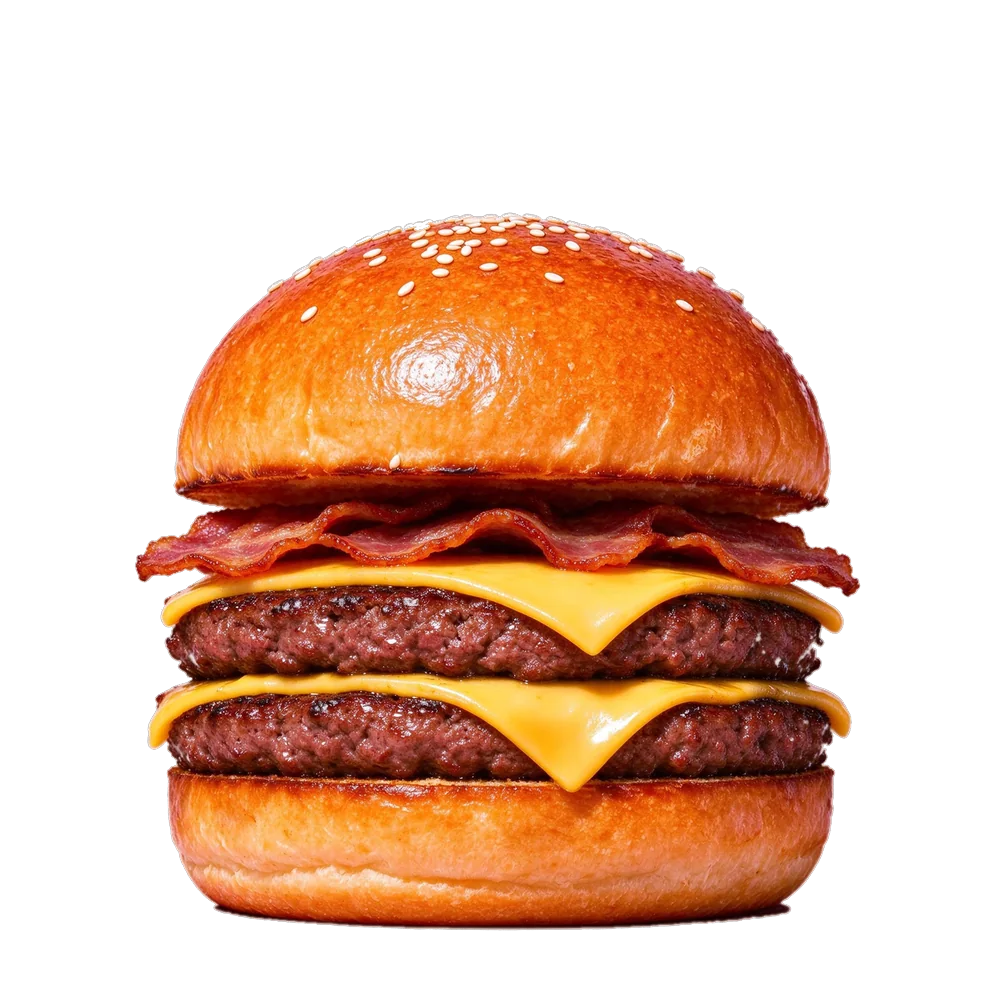
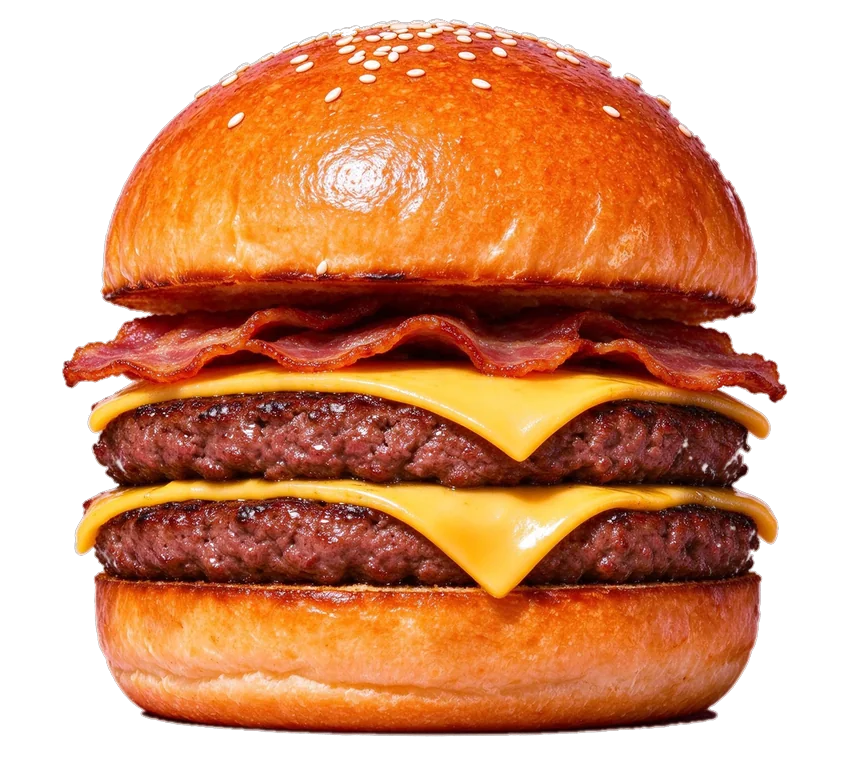
Smashley's: alignment and white-space fixes (builder crop and plate, footer, duplicate link)
Claude-Session: https://claude.ai/code/session_01PZg9kk99EGr2PeG4sMPivL

diff --git a/smashlads/src/styles/global.css b/smashlads/src/styles/global.css
@@ -235,20 +235,20 @@ input, textarea { cursor: text; }
 .feel__kid { position: absolute; left: 31vw; bottom: 3vw; width: 22vw; aspect-ratio: 1; background: var(--orange); z-index: 3; -webkit-mask: url('../assets/mascot-kid.png') center / contain no-repeat; mask: url('../assets/mascot-kid.png') center / contain no-repeat; }
 
 /* ---------- footer: the slicing game ---------- */
-.foot { min-height: 62vw; overflow: hidden; padding: 3vw 3vw 0; }
+.foot { min-height: 46vw; overflow: hidden; padding: 3vw 3vw 0; }
 .foot__top { display: flex; justify-content: space-between; align-items: center; font-size: clamp(22px, 1.8vw, 30px); text-transform: uppercase; position: relative; z-index: 7; }
 .foot__top nav { display: flex; gap: 2.4vw; }
 .foot__top a, .foot__top button { text-decoration: none; transition: color 0.25s; }
 .foot__top a:hover, .foot__top button:hover { color: var(--orange); }
 .foot__tag { position: relative; z-index: 2; margin-top: 1.4vw; font-size: clamp(22px, 1.8vw, 30px); text-transform: uppercase; }
-.foot__word { position: absolute; left: 0; right: 0; bottom: 3.6vw; text-align: center; font: 400 15.6vw / 0.9 'Modak', sans-serif; color: var(--blue); -webkit-text-stroke: 0.06em var(--white); paint-order: stroke fill; white-space: nowrap; pointer-events: none; z-index: 1; }
+.foot__word { position: absolute; left: 0; right: 0; bottom: 5.6vw; text-align: center; font: 400 15.6vw / 0.9 'Modak', sans-serif; color: var(--blue); -webkit-text-stroke: 0.06em var(--white); paint-order: stroke fill; white-space: nowrap; pointer-events: none; z-index: 1; }
 .game { position: absolute; inset: 0; width: 100%; height: 100%; z-index: 4; touch-action: pan-y; }
 .game.is-live { touch-action: none; }
-.game__msg { position: absolute; left: 50%; top: 40%; transform: translateX(-50%); z-index: 5; text-align: center; pointer-events: none; display: grid; gap: 0.3vw; text-transform: uppercase; }
+.game__msg { position: absolute; left: 50%; top: 24%; transform: translateX(-50%); z-index: 5; text-align: center; pointer-events: none; display: grid; gap: 0.3vw; text-transform: uppercase; }
 .game__msg b { font: 400 clamp(60px, 7vw, 120px) / 0.9 'Mouse Memoirs', sans-serif; color: var(--orange); }
 .game__msg span { font-size: clamp(24px, 2vw, 34px); }
 .game__msg.is-hidden { opacity: 0; transition: opacity 0.3s; }
-.game__hud { position: absolute; left: 3vw; right: 3vw; bottom: 1.2vw; z-index: 6; display: flex; align-items: center; gap: 2.6vw; text-transform: uppercase; font-size: clamp(24px, 2vw, 34px); pointer-events: none; }
+.game__hud { position: absolute; left: 3vw; right: 9vw; bottom: 1.4vw; z-index: 6; display: flex; align-items: center; gap: 2.6vw; text-transform: uppercase; font-size: clamp(24px, 2vw, 34px); pointer-events: none; }
 .game__hud > * { pointer-events: auto; }
 .game__hud b { color: var(--orange); font-weight: 400; margin-left: 0.3em; }
 .game__hud .pill { margin-left: auto; }
@@ -334,11 +334,11 @@ input, textarea { cursor: text; }
   .route { display: none; }
   .feel { grid-template-columns: 1fr; padding: 20vw 6vw 10vw; gap: 8vw; } .feel h2 { font-size: 26vw; } .feel__txt p { max-width: none; margin-bottom: 6vw; } .feel__img img { border-radius: 5vw; }
   .feel__kid { position: relative; left: auto; bottom: auto; width: 66vw; margin: -14vw auto 0; }
-  .foot { min-height: 196vw; padding: 7vw 5vw 0; } .foot__top { flex-direction: column; align-items: flex-start; gap: 3vw; font-size: 24px; } .foot__top nav { gap: 5vw; flex-wrap: wrap; }
+  .foot { min-height: 178vw; padding: 7vw 5vw 0; } .foot__top { flex-direction: column; align-items: flex-start; gap: 3vw; font-size: 24px; } .foot__top nav { gap: 5vw; flex-wrap: wrap; }
   .foot__tag { font-size: 24px; margin-top: 4vw; }
-  .foot__word { font-size: 31vw; line-height: 0.8; bottom: 30vw; padding: 0 2vw; }
+  .foot__word { font-size: 31vw; line-height: 0.8; bottom: 40vw; padding: 0 2vw; }
   .foot__word span { display: block; }
-  .game__msg { top: 41%; width: 90vw; } .game__msg b { font-size: 17vw; } .game__msg span { font-size: 26px; }
+  .game__msg { top: 32%; width: 90vw; } .game__msg b { font-size: 17vw; } .game__msg span { font-size: 26px; }
   .game__hud { left: 5vw; right: 5vw; bottom: 4vw; flex-wrap: wrap; gap: 3vw 6vw; font-size: 28px; } .lives svg { width: 28px; } .game__hud .pill { margin-left: 0; }
   .foot__note { display: block; position: relative; left: auto; bottom: auto; margin-top: 4vw; font-size: 18px; opacity: 0.7; }
   .fm__close { top: 0; left: 0; right: 0; border-radius: 0; text-align: center; padding: 3vw 0; width: 100%; font-size: 26px; }
@@ -356,13 +356,13 @@ input, textarea { cursor: text; }
 .bopt { display: grid; gap: 0.6vw; justify-items: center; text-align: center; }
 .bopt > span { color: var(--blue); font-size: clamp(24px, 1.9vw, 32px); text-transform: uppercase; }
 .bopt__row { display: flex; flex-wrap: wrap; gap: 0.5vw; justify-content: center; }
-.bstage { position: relative; width: min(100%, 41vw); margin: 0 auto; }
-.bstage__burger { position: relative; width: 100%; aspect-ratio: 1; }
+.bstage { position: relative; width: min(100%, 38vw); margin: 0 auto; padding-bottom: 1.6vw; }
+.bstage__burger { position: relative; width: 100%; aspect-ratio: var(--ar, 1); z-index: 2; }
 .bimg { position: absolute; inset: 0; width: 100%; height: 100%; object-fit: contain; filter: drop-shadow(0 1vw 1.2vw rgba(20, 22, 43, 0.25)); }
-.bstage .plate { width: 84%; margin: -4.2vw auto 0; position: relative; z-index: 0; }
+.bstage .plate { position: absolute; left: 6%; width: 88%; top: var(--pb, 95%); margin: 0; transform: translateY(calc(-62% - 1.7vw)); z-index: 1; }
 .bstage .sidepic { right: -6vw; bottom: 0.6vw; width: 11vw; }
 @media (max-width: 991px) {
   .build__grid { grid-template-columns: 1fr; }
   .bstage { order: 1; width: 100%; } .bopts { order: 2; gap: 6vw; } .bopt { gap: 2vw; } .bopt__row { gap: 2vw; }
-  .bstage .plate { margin-top: -9vw; } .bstage .sidepic { right: -2vw; bottom: 4vw; width: 30vw; }
+  .bstage .sidepic { right: -2vw; bottom: 4vw; width: 30vw; } .bstage .plate { transform: translateY(calc(-62% - 2.2vw)); }
 }

diff --git a/smashlads/src/data/site.ts b/smashlads/src/data/site.ts
@@ -1,6 +1,7 @@
 // All content for Smashley's, a fictional smash-burger restaurant group in central London. Everything here is invented:
 // the brand, addresses, phone numbers (020 7946 0xxx is the Ofcom range reserved for fiction), hours, prices and claims.
 import credits from './credits.json';
+import dims from './burger-dims.json';
 
 export const brand = {
   name: "Smashley's",
@@ -45,6 +46,7 @@ export const menu = [
 
 // Build your own: finished burger photographs, one per combination (patties x cheese x bacon x lettuce and pickles).
 // Prices in pounds, energy in kcal. The photos are public/art/b/p{patties}c{cheese}b{bacon}s{salad}.webp.
+export const burgerDims = dims;
 export const bld = {
   base: { price: 3.5, kcal: 230 },
   toggles: [
@@ -85,7 +87,6 @@ export const footerLinks = [
   { label: 'Home', href: '#top' },
   { label: 'Burgers', href: '#', menu: true },
   { label: 'Build', href: '#build' },
-  { label: 'Contact', href: 'mailto:hello@smashleys.example' },
 ];
 
 export const note = "Smashley's is a fictional restaurant, a design concept. Photography from Unsplash contributors.";

diff --git a/smashlads/scripts/make-burgers.py b/smashlads/scripts/make-burgers.py
@@ -6,6 +6,7 @@ from scipy import ndimage as ndi
 os.makedirs('public/art/b', exist_ok=True)
 src = {'p2c1b0s1': 'art-src/base-burger.png'}
 for f in glob.glob('art-src/gen/b-*.png'): src[os.path.basename(f)[2:-4]] = f
+outs = {}
 for k, f in sorted(src.items()):
     a = np.asarray(Image.open(f).convert('RGB').resize((1000, 1000), Image.LANCZOS)).astype(np.float32)
     s = 40
@@ -28,5 +29,14 @@ for k, f in sorted(src.items()):
     im = im.resize((int(1000 * sc), int(1000 * sc)), Image.LANCZOS)
     out = Image.new('RGBA', (1000, 1000), (0, 0, 0, 0))
     out.paste(im, (int(500 - bc * sc), int(930 - y1 * sc)), im)
-    out.save(f'public/art/b/{k}.webp', quality=84, alpha_quality=90, method=6)
-print(len(src), 'burgers')
+    outs[k] = out
+# one shared crop for every burger: no empty space above the tallest one, none at the sides
+tops = [np.where(np.asarray(o)[..., 3] > 40)[0].min() for o in outs.values()]
+lefts = [np.where(np.asarray(o)[..., 3] > 40)[1].min() for o in outs.values()]
+rights = [np.where(np.asarray(o)[..., 3] > 40)[1].max() for o in outs.values()]
+cy0 = max(0, min(tops) - 14); cy1 = 962; cx0 = max(0, min(lefts) - 14); cx1 = min(1000, max(rights) + 14)
+for k, o in outs.items():
+    o.crop((cx0, cy0, cx1, cy1)).save(f'public/art/b/{k}.webp', quality=84, alpha_quality=90, method=6)
+import json
+json.dump({'w': int(cx1 - cx0), 'h': int(cy1 - cy0), 'bottom': round(float((930 - cy0) / (cy1 - cy0)), 4)}, open('src/data/burger-dims.json', 'w'))
+print(len(src), 'burgers', cx1 - cx0, 'x', cy1 - cy0)

diff --git a/.claude/skills/design-craft/references/smashlads.md b/.claude/skills/design-craft/references/smashlads.md
@@ -66,3 +66,9 @@ Lessons:
 - Audit by eye against each recipe: first pass only 9 of 16 matched (the model adds a third patty, or a cheese sheet where lettuce was removed). Fix that worked: edit from the nearest correct image with ONE change and say "exactly TWO patties, exactly TWO cheese slices, put nothing in its place". Never chain more than one change per edit.
 - UI: toggles (patties, cheese, bacon, lettuce and pickles, sides) crossfade between photos; price, kcal, layer count update; Add to cart. Patty-type and bun swaps were dropped (no photos for them).
 - Bug: two elements used `data-price` (menu Add buttons and the builder total), so the total read "Add to cart". Use unique data attributes.
+
+## Ninth pass: alignment and white-space audit (2026-11-06)
+- Method that found things: measure each section's content top and bottom against its box in the headless browser (space above and below the first and last visible child), then look at element screenshots of the builder, band and footer at 1440 and 390.
+- Builder gap: the generated burger photos have about 22% empty margin above the burger; crop every photo to one shared box (scripts/make-burgers.py writes src/data/burger-dims.json, read by the page for aspect-ratio and the plate position). The plate looked in front of the burger because a later positioned element paints over an earlier one: give the burger a higher z-index and place the plate absolutely at the bun's bottom edge.
+- Footer: duplicate Contact link (old mailto plus the new overlay button), the cart button covered Reset (give the HUD right padding), the wordmark crowded the HUD on phones (raise it), and the footer was far taller than its content.
+- Fixed-position helpers (cart, top bar) must be in the audit: check that no control is covered at the page corners.
